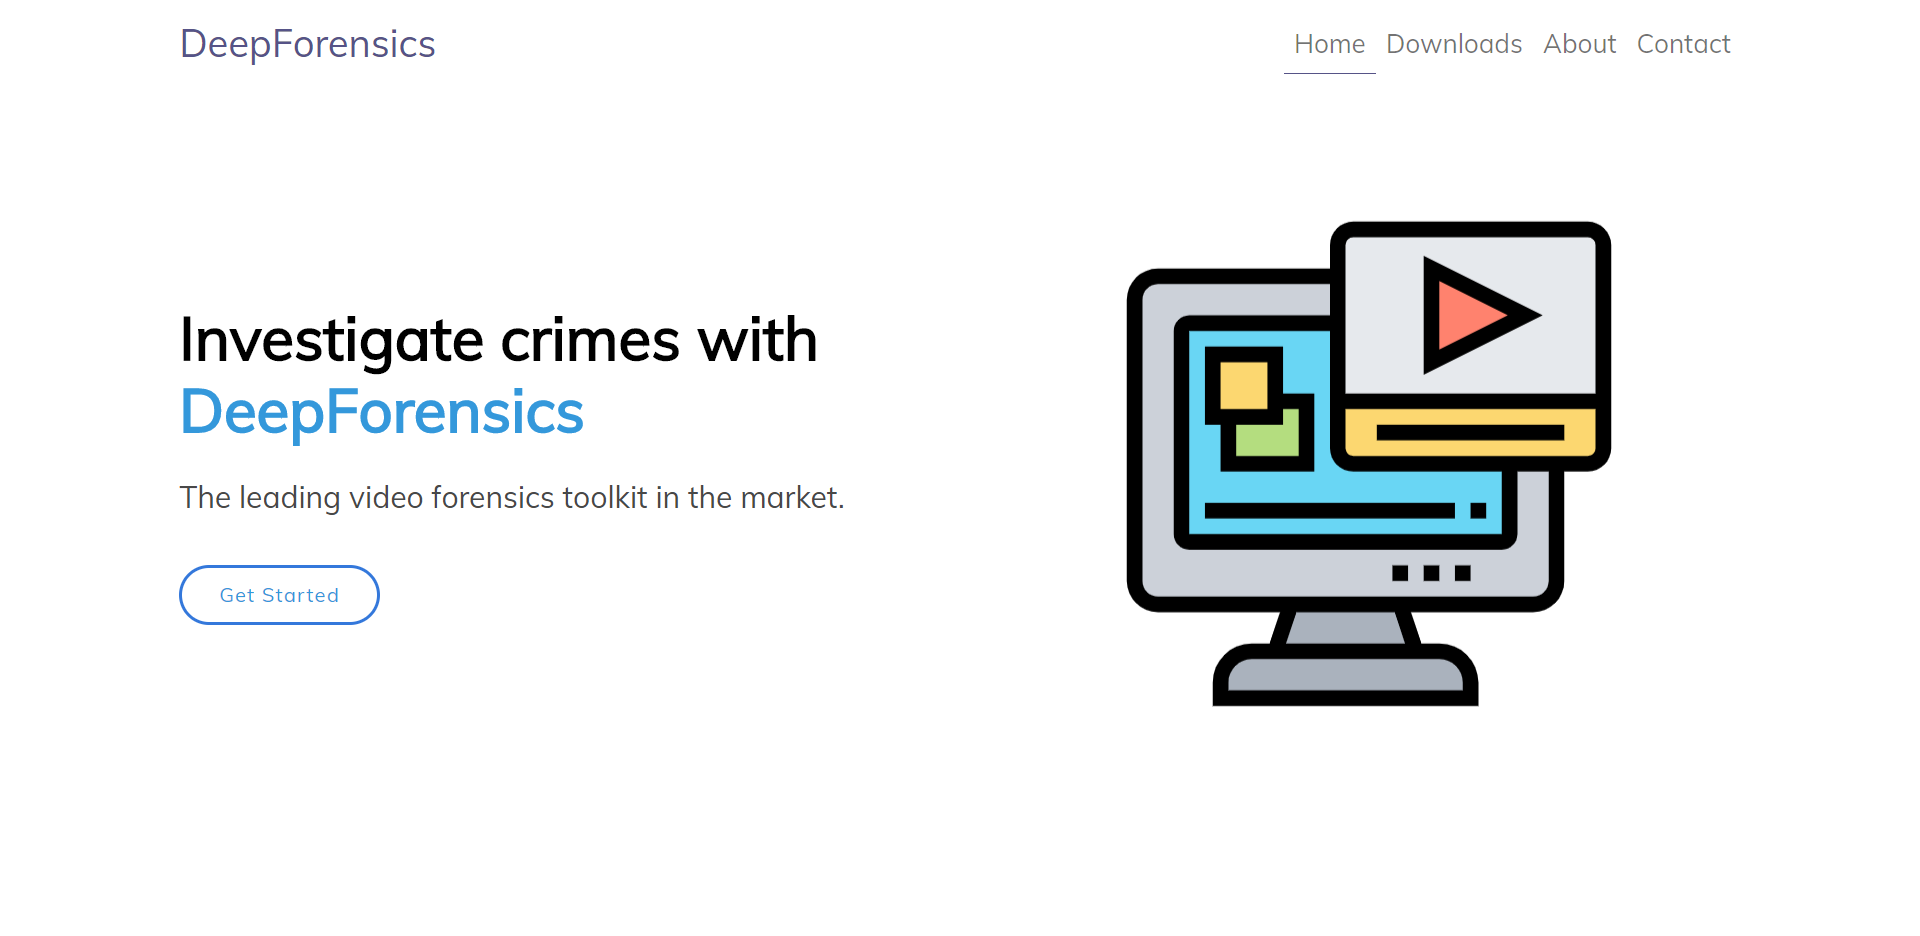
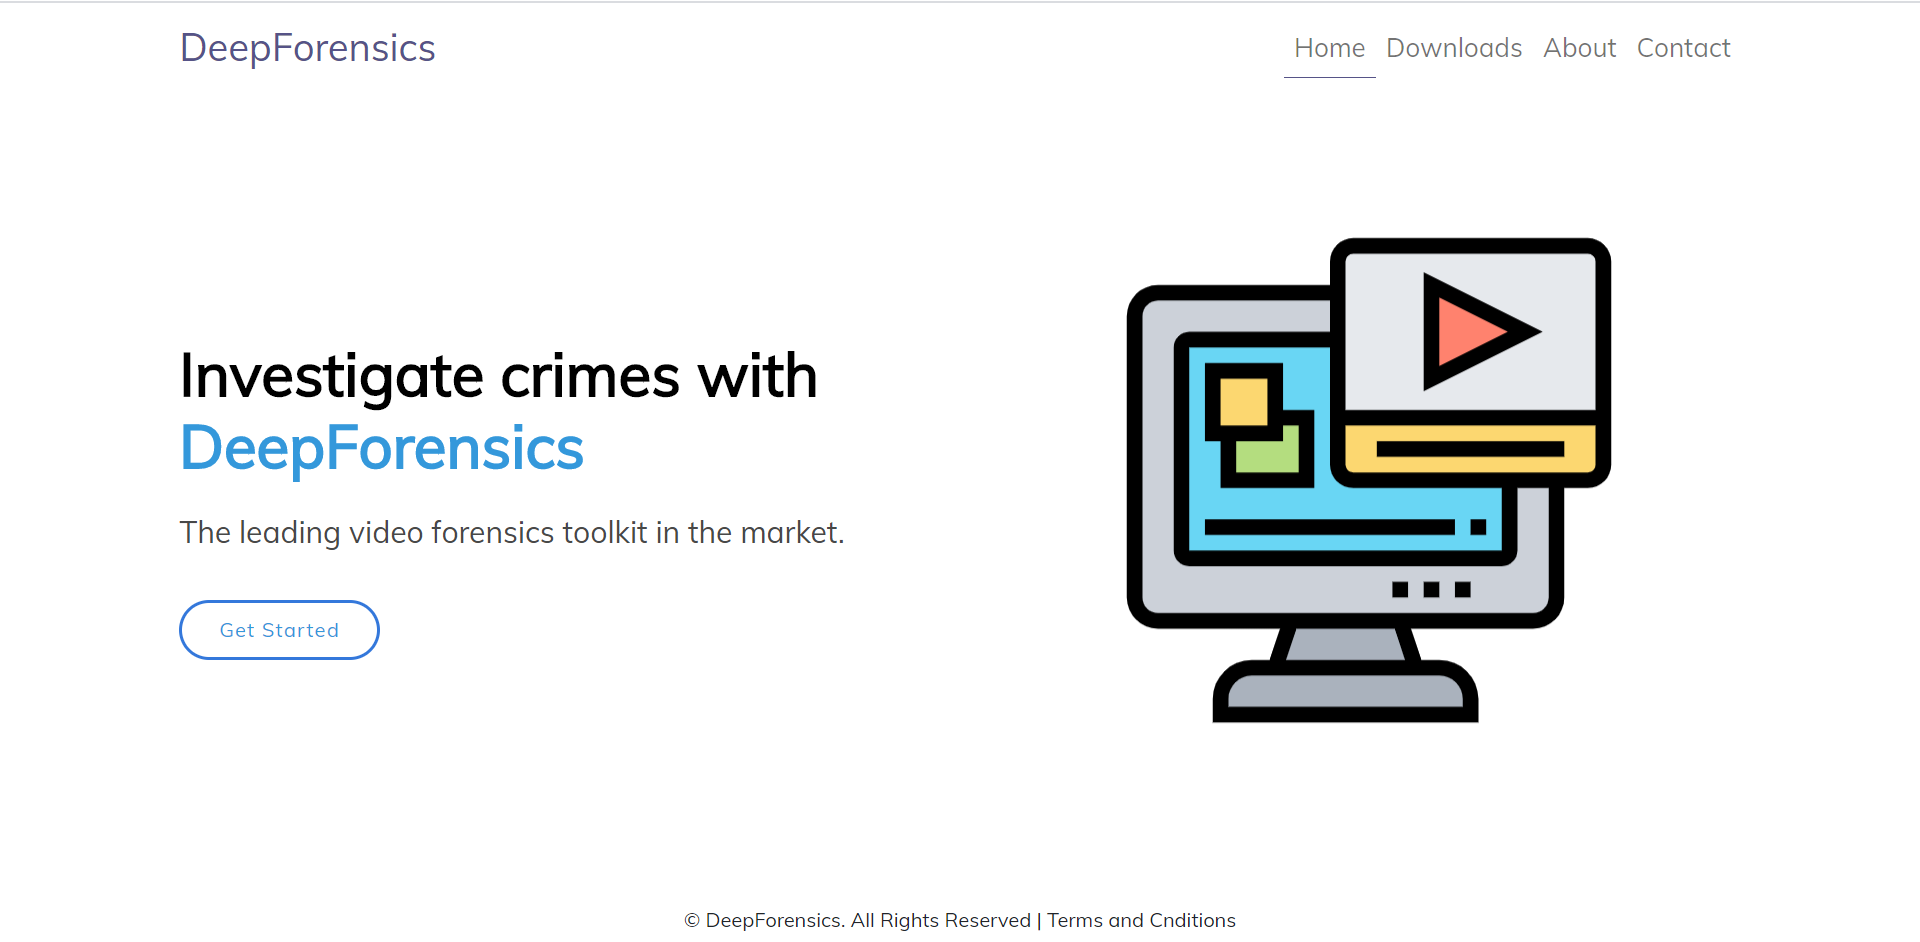
compleated all pages

diff --git a/src/index.css b/src/index.css
@@ -6,7 +6,7 @@
   font-family: "Mulish", sans-serif;
 }
 .home-section {
-  height: 600px;
+  height: 650px;
 }
 .navbar {
   background-color: white;
@@ -88,6 +88,9 @@
   height: 100%;
   width: 100%;
 }
+.contact_div {
+  height: 506px;
+}
 body {
   margin: 0;
   padding: 0;
@@ -96,4 +99,31 @@ body {
     sans-serif;
   -webkit-font-smoothing: antialiased;
   -moz-osx-font-smoothing: grayscale;
+}
+/* Responsive Code */
+
+@media (max-width: 991px) {
+  #header {
+    height: 80vh;
+    text-align: center;
+  }
+  #header .header-img {
+    text-align: center;
+  }
+  #header .header-img img {
+    width: 60%;
+  }
+
+  @media (max-width: 768px) {
+    #header {
+      margin-top: 20px;
+    }
+    #header h1 {
+      font-size: 28px;
+      margin-bottom: 30px;
+    }
+    #header .header-img img {
+      width: 70%;
+    }
+  }
 }

diff --git a/src/Contact.jsx b/src/Contact.jsx
@@ -22,13 +22,14 @@ const Contact = () => {
     e.preventDefault();
     alert(`${state.email}`);
   };
+
   return (
     <>
       <div className="my-5">
         <h1 className="text-center">Contact Us</h1>
       </div>
-      <div className="container contact_div">
-        <div className="row">
+      <div className="container contact_div ">
+        <div className="row ">
           <div className="col-md-6 col-10 mx-auto">
             <form onSubmit={formSubmit}>
               <div className="mb-3">

diff --git a/src/App.js b/src/App.js
@@ -7,6 +7,7 @@ import Service from "./Service";
 import About from "./About";
 import Contact from "./Contact";
 import NavBar from "./Navbar";
+import Footer from "./ReusableCompnents/footer.jsx";
 import "./App.css";
 import { Switch, Route, Redirect } from "react-router-dom";
 
@@ -21,6 +22,7 @@ function App() {
         <Route exact path="/contact" component={Contact} />
         <Redirect to="/" />
       </Switch>
+      <Footer />
     </div>
   );
 }

diff --git a/src/ReusableCompnents/footer.jsx b/src/ReusableCompnents/footer.jsx
@@ -1,0 +1,11 @@
+import React from "react";
+const Footer = () => {
+  return (
+    <>
+      <footer className="mt-auto text-center mb-2">
+        © DeepForensics. All Rights Reserved | Terms and Cnditions
+      </footer>
+    </>
+  );
+};
+export default Footer;
